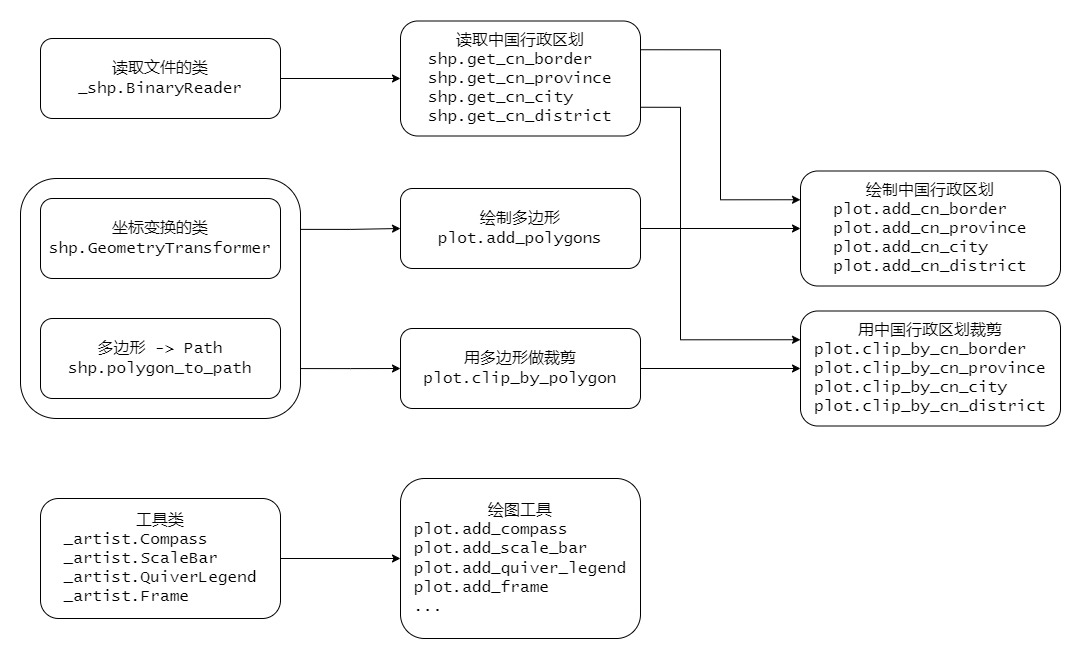
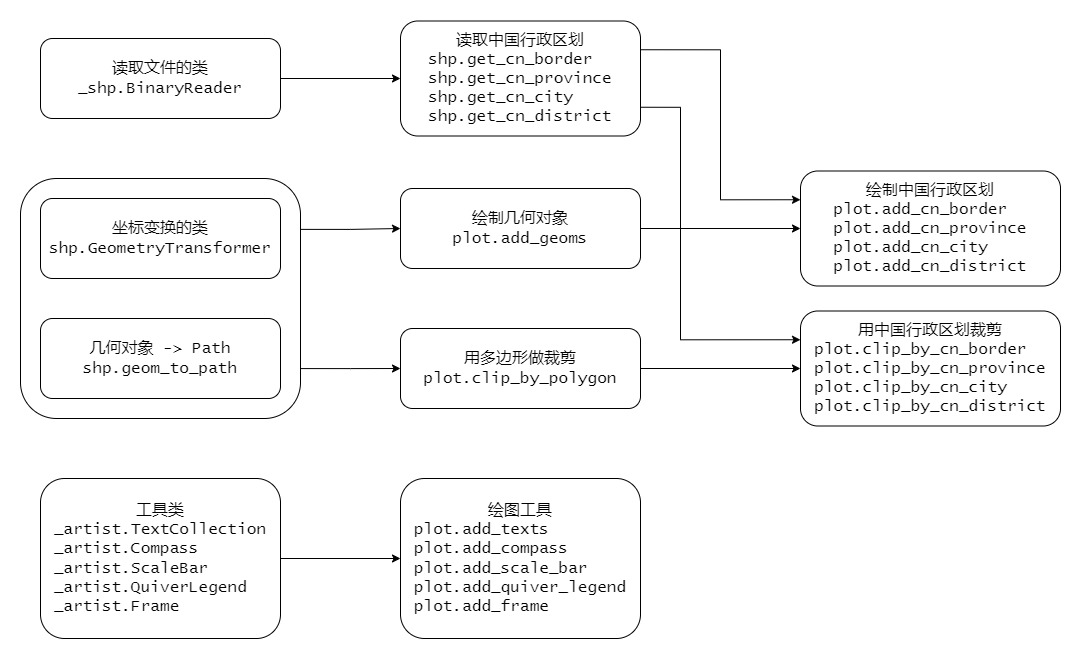
Update README.md

diff --git a/frykit/plot.py b/frykit/plot.py
@@ -34,7 +34,7 @@ from shapely.prepared import prep
 import frykit._artist as fa
 import frykit.shp as fshp
 from frykit import DATA_DIRPATH
-from frykit.help import deprecator, is_sequence, to_list
+from frykit.help import deprecator, to_list
 
 # 等经纬度投影
 PLATE_CARREE = ccrs.PlateCarree()
@@ -137,17 +137,13 @@ def _get_boundary(ax: GeoAxes) -> sgeom.Polygon:
     return boundary
 
 
-'''
-TODO
-- 没有 axes 属性的 Artist
-- 严格防文字出界的方案：fig.canvas.draw + t.get_window_extent
-- streamplot 的返回值不能用来裁剪箭头
-'''
-
-
+# TODO
+# - 没有 axes 属性的 Artist
+# - 严格防文字出界的方案：fig.canvas.draw + t.get_window_extent
+# - streamplot 的返回值不能用来裁剪箭头
 def clip_by_polygon(
     artist: Union[Artist, list[Artist]],
-    polygon: fshp.PolygonType,
+    polygon: Union[fshp.PolygonType, list[fshp.PolygonType]],
     crs: Optional[ccrs.CRS] = None,
     ax: Optional[Axes] = None,
     fast_transform: bool = True,
@@ -166,8 +162,8 @@ def clip_by_polygon(
         - imshow
         - quiver
 
-    polygon : PolygonType
-        用于裁剪的多边形对象
+    polygon : PolygonType or list of PolygonType
+        用于裁剪的一个或一组多边形
 
     crs : CRS, optional
         当 ax 是 Axes 时 crs 只能为 None。
@@ -200,6 +196,10 @@ def clip_by_polygon(
                 break
         else:
             raise ValueError('需要指定 ax')
+
+    # 合并结果无法缓存
+    if not fshp.is_geometry(polygon):
+        polygon = unary_union(polygon)
 
     # 通过缓存节省投影的时间
     if isinstance(ax, GeoAxes):
@@ -668,13 +668,9 @@ def clip_by_cn_province(
         是否使用更严格的裁剪方法。默认为 False。
         为 True 时即便 GeoAxes 的边界不是矩形也能避免出界。
     '''
-    polygon = fshp.get_cn_province(province)
-    if is_sequence(province):  # 但是会失去缓存的效果
-        polygon = unary_union(polygon)
-
     clip_by_polygon(
         artist=artist,
-        polygon=polygon,
+        polygon=fshp.get_cn_province(province),
         ax=ax,
         fast_transform=fast_transform,
         strict=strict,
@@ -715,13 +711,9 @@ def clip_by_cn_city(
         是否使用更严格的裁剪方法。默认为 False。
         为 True 时即便 GeoAxes 的边界不是矩形也能避免出界。
     '''
-    polygon = fshp.get_cn_city(city)
-    if is_sequence(city):
-        polygon = unary_union(polygon)
-
     clip_by_polygon(
         artist=artist,
-        polygon=polygon,
+        polygon=fshp.get_cn_city(city),
         ax=ax,
         fast_transform=fast_transform,
         strict=strict,
@@ -749,7 +741,7 @@ def clip_by_cn_district(
         - quiver
 
     district : GetCnKey
-        单个县名或 adcode
+        县名或 adcode。可以是复数个县。
 
     ax : Axes, optional
         artist 所在的 Axes。默认为 None，表示采用 artist.axes。
@@ -762,13 +754,9 @@ def clip_by_cn_district(
         是否使用更严格的裁剪方法。默认为 False。
         为 True 时即便 GeoAxes 的边界不是矩形也能避免出界。
     '''
-    polygon = fshp.get_cn_district(district)
-    if is_sequence(district):
-        polygon = unary_union(polygon)
-
     clip_by_polygon(
         artist=artist,
-        polygon=polygon,
+        polygon=fshp.get_cn_district(district),
         ax=ax,
         fast_transform=fast_transform,
         strict=strict,
@@ -1103,7 +1091,7 @@ def label_cn_district(
 
 def _set_axes_ticks(
     ax: Axes,
-    extents: Any,
+    extents: Optional[tuple[float, float, float, float]],
     major_xticks: np.ndarray,
     major_yticks: np.ndarray,
     minor_xticks: np.ndarray,
@@ -1128,7 +1116,7 @@ def _set_axes_ticks(
 
 def _set_simple_geoaxes_ticks(
     ax: GeoAxes,
-    extents: Any,
+    extents: Optional[tuple[float, float, float, float]],
     major_xticks: np.ndarray,
     major_yticks: np.ndarray,
     minor_xticks: np.ndarray,
@@ -1153,7 +1141,7 @@ def _set_simple_geoaxes_ticks(
 
 def _set_complex_geoaxes_ticks(
     ax: GeoAxes,
-    extents: Any,
+    extents: tuple[float, float, float, float],
     major_xticks: np.ndarray,
     major_yticks: np.ndarray,
     minor_xticks: np.ndarray,
@@ -1295,7 +1283,7 @@ def _interp_minor_ticks(major_ticks: Any, m: int) -> np.ndarray:
 # TODO: extents=None 时怎么处理比较合适
 def set_map_ticks(
     ax: Axes,
-    extents: Optional[Any] = None,
+    extents: Optional[tuple[float, float, float, float]] = None,
     xticks: Optional[Any] = None,
     yticks: Optional[Any] = None,
     *,
@@ -1317,7 +1305,7 @@ def set_map_ticks(
     ax : Axes
         目标 Axes
 
-    extents : (4,) array_like, optional
+    extents : (4,) tuple of float, optional
         经纬度范围 [lon0, lon1, lat0, lat1]。默认为 None，表示显示全球。
         当 GeoAxes 的投影不是 PlateCarree 或 Mercator 时 extents 不能为 None。
 
@@ -1375,9 +1363,7 @@ def set_map_ticks(
     if yformatter is None:
         yformatter = LatitudeFormatter()
 
-    if not isinstance(ax, Axes):
-        raise TypeError('ax 不是 Axes')
-    elif isinstance(ax, GeoAxes):
+    if isinstance(ax, GeoAxes):
         if isinstance(ax.projection, (ccrs.PlateCarree, ccrs.Mercator)):
             setter = _set_simple_geoaxes_ticks
         else:
@@ -1398,7 +1384,7 @@ def set_map_ticks(
 
 
 def quick_cn_map(
-    extents: Optional[Any] = None,
+    extents: Optional[tuple[float, float, float, float]] = None,
     use_geoaxes: bool = True,
     figsize: Optional[tuple[float, float]] = None,
 ) -> Axes:
@@ -1407,7 +1393,7 @@ def quick_cn_map(
 
     Parameters
     ----------
-    extents : extents : (4,) array_like, optional
+    extents : (4,) tuple of float, optional
         经纬度范围 [lon0, lon1, lat0, lat1]。默认为None，表示 [70, 140, 0, 60]。
 
     use_geoaxes : bool, optional
@@ -1627,7 +1613,10 @@ def add_frame(ax: Axes, width: float = 5, **kwargs: Any) -> fa.Frame:
 
 
 def add_box(
-    ax: Axes, extents: Any, steps: int = 100, **kwargs: Any
+    ax: Axes,
+    extents: tuple[float, float, float, float],
+    steps: int = 100,
+    **kwargs: Any,
 ) -> PathPatch:
     '''
     在 Axes 上添加一个方框
@@ -1637,7 +1626,7 @@ def add_box(
     ax : Axes
         目标 Axes
 
-    extents : (4,) array_like
+    extents : (4,) tuple of float
         方框范围 [x0, x1, y0, y1]
 
     steps: int, optional

diff --git a/frykit/_artist.py b/frykit/_artist.py
@@ -92,7 +92,9 @@ def _geoms_extents(
     return x0, x1, y0, y1
 
 
-# 类持有对几何对象的引用，会存在问题吗？
+# TODO
+# - 类持有对几何对象的引用，会存在问题吗？
+# - 绘制缓存的速度略慢于 FeatureArtist？
 class GeometryCollection(PathCollection):
     '''投影并绘制多边形对象的 Collection 类'''
 
@@ -126,14 +128,17 @@ class GeometryCollection(PathCollection):
             self.geoms_to_paths = _geoms_to_paths
 
         # 初始化 paths，以触发 autoscale
-        x0, x1, y0, y1 = _geoms_extents(self.geoms)
-        x = (x0 + x1) / 2
-        y = (y0 + y1) / 2
-        a = (x1 - x0) / 2
-        b = (y1 - y0) / 2
-        verts = make_ellipse(x, y, a, b)
-        ellipse = sgeom.Polygon(verts)
-        paths = self.geoms_to_paths([ellipse])
+        if ax.get_autoscale_on():
+            x0, x1, y0, y1 = _geoms_extents(self.geoms)
+            x = (x0 + x1) / 2
+            y = (y0 + y1) / 2
+            a = (x1 - x0) / 2
+            b = (y1 - y0) / 2
+            verts = make_ellipse(x, y, a, b)
+            ellipse = sgeom.Polygon(verts)
+            paths = self.geoms_to_paths([ellipse])
+        else:
+            paths = []
 
         super().__init__(paths, **kwargs)
         ax.add_collection(self)

diff --git a/frykit/calc.py b/frykit/calc.py
@@ -223,7 +223,10 @@ def make_circle(
 
 
 def region_ind(
-    lon: Any, lat: Any, extents: Any, form: Literal['mask', 'ix'] = 'mask'
+    lon: Any,
+    lat: Any,
+    extents: tuple[float, float, float, float],
+    form: Literal['mask', 'ix'] = 'mask',
 ) -> Union[np.ndarray, tuple[np.ndarray, np.ndarray]]:
     '''
     返回落入给定经纬度方框范围内的索引
@@ -236,7 +239,7 @@ def region_ind(
     lat : array_like
         纬度。若 form='mask' 则要求形状与 lon 一致。
 
-    extents : (4,) array_like
+    extents : (4,) tuple of float
         经纬度方框的范围 [lon0, lon1, lat0, lat1]
 
     form : {'mask', 'ix'}

diff --git a/README.md b/README.md
@@ -6,7 +6,7 @@
 
 - 读取中国行政区划数据
 - 创建多边形掩膜（mask）
-- 对多边形做投影变换
+- 对几何对象做投影变换
 
 `plot` 模块的功能包括：
 
@@ -107,8 +107,6 @@ import frykit.shp as fshp
 
 行政区划数据来自 [高德地图行政区域查询接口](https://lbs.amap.com/api/webservice/guide/api/district)，已从 GCJ-02 坐标系处理到了 WGS84 坐标系上。文件都在 `frykit.DATA_DIRPATH` 指向的目录里。制作方法见 [amap-shp](https://github.com/ZhaJiMan/amap-shp)。
 
-> 区县数据自 0.6.4 版本开始支持
-
 ### 绘制中国行政区划
 
 - `add_cn_border`：绘制国界。
@@ -163,10 +161,10 @@ plt.show()
 `add_cn_border` 函数相当于
 
 ```Python
-add_polygons(ax, get_cn_border())
+add_geoms(ax, get_cn_border())
 ```
 
-底层的 `add_polygons` 可以用来绘制任意 Shapely 多边形对象。
+底层的 `add_geoms` 类似 `GeoAxes.add_geometries`，可以绘制除 `Point` 外的任意 Shapely 几何对象。
 
 画一个半径为 10 的圆：
 
@@ -174,7 +172,7 @@ add_polygons(ax, get_cn_border())
 import shapely.geometry as sgeom
 
 circle = sgeom.Point(0, 0).buffer(10)
-fplt.add_polygons(ax, circle)
+fplt.add_geoms(ax, circle)
 ```
 
 配合 Cartopy 的 `Reader` 画自己提供的 shapefile：
@@ -183,12 +181,12 @@ fplt.add_polygons(ax, circle)
 from cartopy.io.shapereader import Reader
 
 reader = Reader('2023年_CTAmap_1.12版/2023年县级/2023年县级.shp')
-fplt.add_polygons(ax, reader.geometries(), fc='none', ec='k', lw=0.25)
+fplt.add_geoms(ax, reader.geometries(), fc='none', ec='k', lw=0.25)
 ```
 
 通过 `array`、 `cmap` 和 `norm` 参数还能实现类似分省填色的效果（详见 [fill.py](example/fill.py)）。
 
-`add_polygons` 默认直接用 pyproj 做地图投影变换，速度更快但也更容易出现错误的效果。可以指定参数 `fast_transform=False`，切换成更正确但速度更慢的模式。或者直接换用 Cartopy 的 `add_geometries`。
+`add_geoms` 默认直接用 pyproj 做地图投影变换，速度更快但也更容易出现错误的效果。可以指定参数 `fast_transform=False`，切换成更正确但速度更慢的模式。或者直接换用 `GeoAxes.add_geometries`。
 
 ### 裁剪 Artist
 
@@ -228,12 +226,10 @@ plt.show()
 
 ![clip_by_cn_border](image/clip_by_cn_border.png)
 
-多省市县裁剪需要提前合并成单个多边形，然后用 `clip_by_polygon` 裁剪：
+多省裁剪直接传入列表即可：
 
 ```Python
-from shapely.ops import unary_union
-
-jingjinji = unary_union(fshp.get_cn_province(['北京市', '天津市', '河北省']))
+jingjinji = ['北京市', '天津市', '河北省']
 fplt.clip_by_polygon(cf, jingjinji)
 ```
 

diff --git a/CHANGELOG.md b/CHANGELOG.md
@@ -5,10 +5,10 @@
 - `add_cn_xxx` 系列函数改用 `GeometryCollection` 类实现，新增 `skip_outside` 参数，通过跳过方框外的几何对象加快绘制速度。
 - `label_cn_xxx` 系列函数改用 `TextCollection` 类实现，新增 `skip_outside` 参数，通过跳过方框外的文本对象加快绘制速度。
 - 修改 `clip_by_xxx` 系列函数：
+  - 支持用多个多边形做裁剪。
   - 新增可选的 `ax` 参数，可以手动指定 `Axes`。
   - 去除 `artist.axes` 是否相同的检查。
   - 提高裁剪 `Text` 对象的效率。
-  - `clip_by_cn_xxx` 系列函数支持输入一组省/市/县。
 - 修正同时画 `Axes` 和 `GeoAxes` 地图时，会有一方无法利用缓存机制的 bug。
 - 新增 `is_geometry`、`is_point`、`is_line_string`、`is_linear_ring` 和 `is_polygon` 函数。
 - 新增 `is_sequence` 和 `to_list` 函数。
